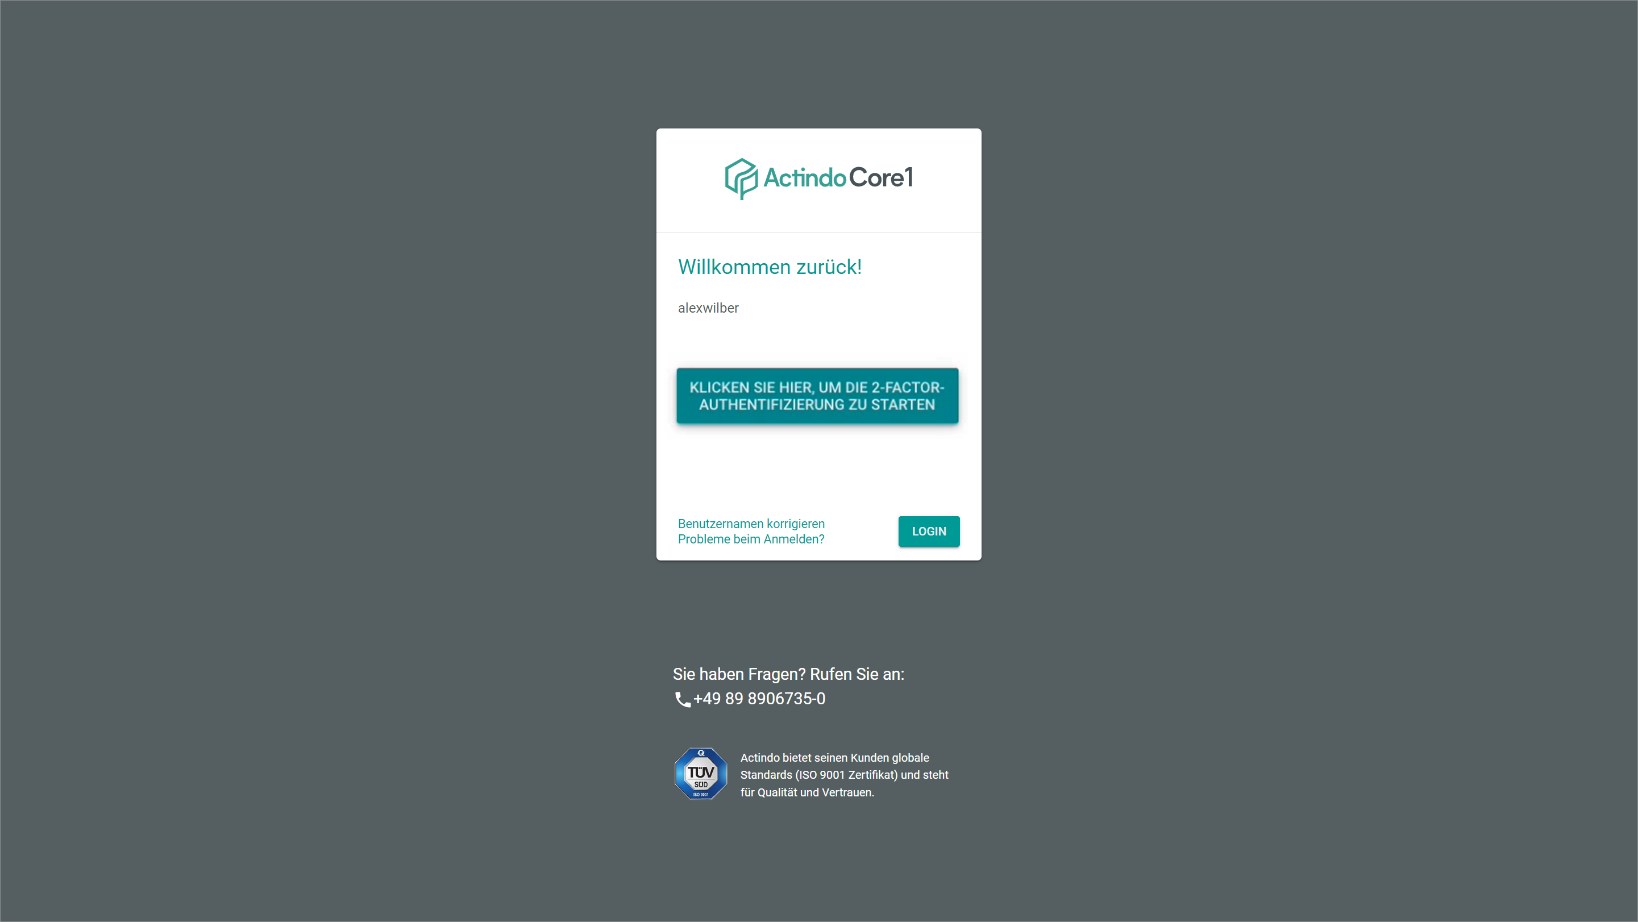
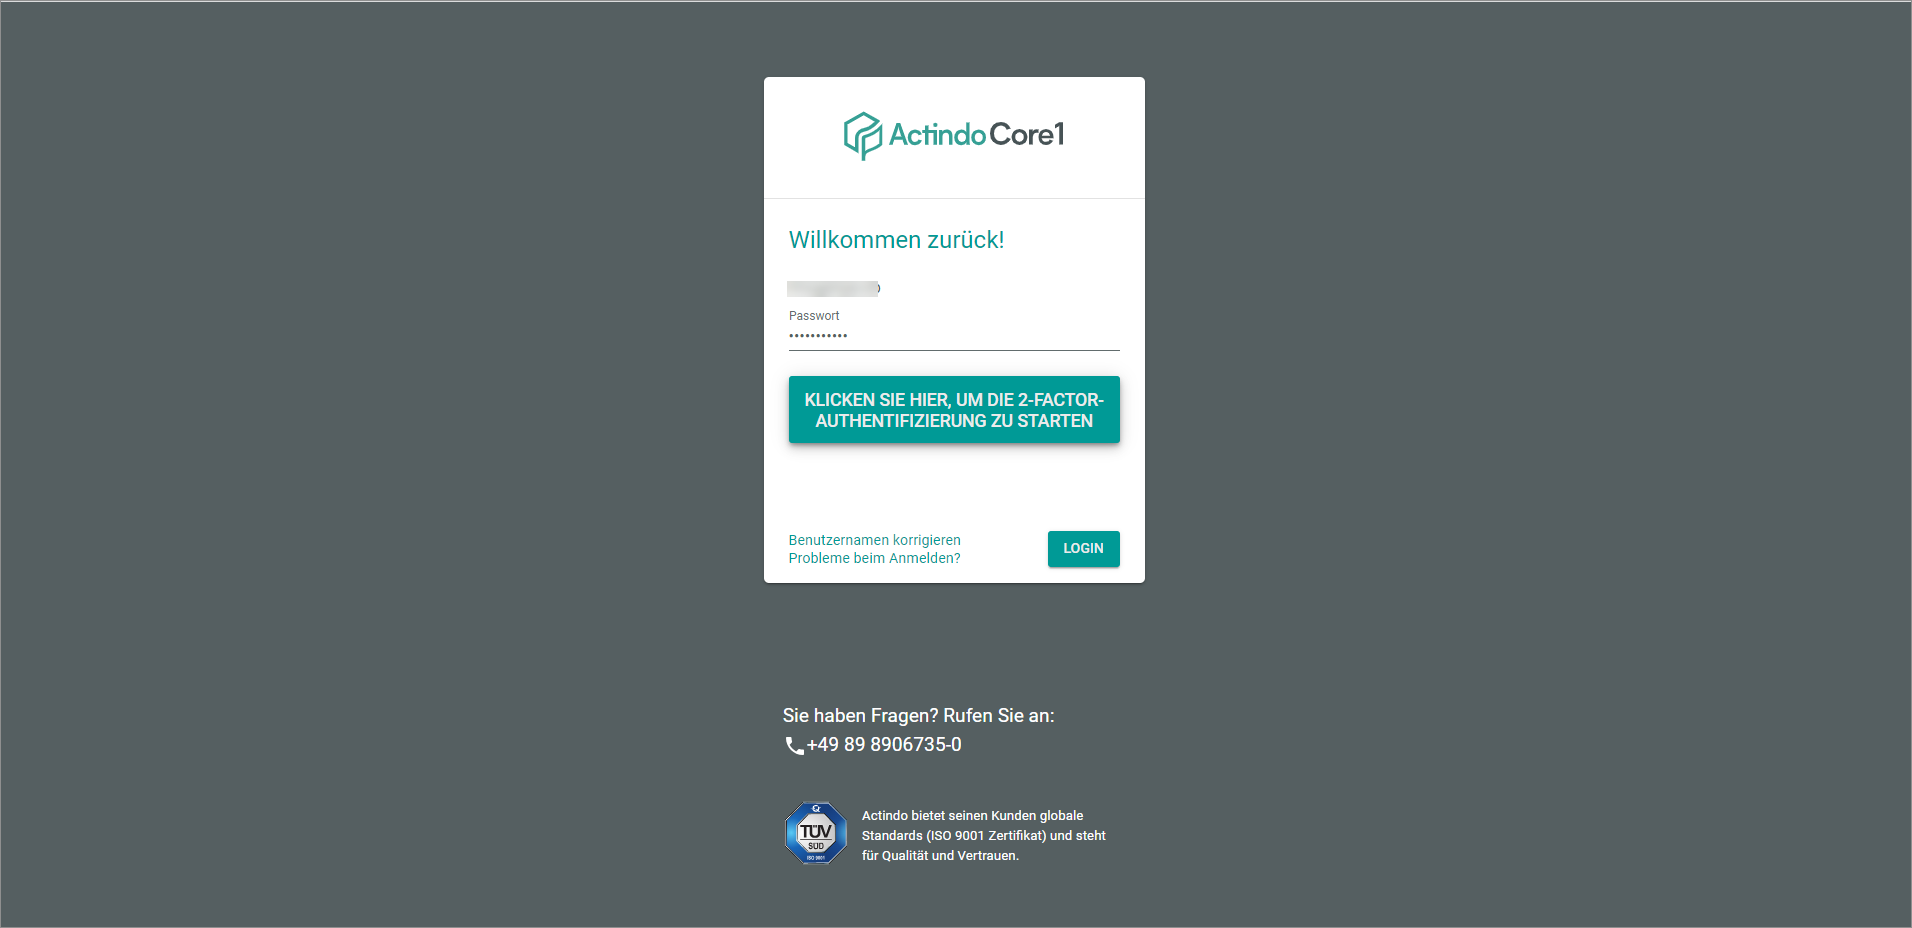
ACD-839

diff --git a/Core1Platform/UsingCore1/01b_U2FLogin.md b/Core1Platform/UsingCore1/01b_U2FLogin.md
@@ -14,32 +14,25 @@ After U2F has been configured for your Actindo account, you will use U2F from yo
 
 *Login Actindo*
 
-![Login username](../../Assets/Screenshots/Core1Platform/LoginUserName.png "[Login username]")
+![Login username](../../Assets/Screenshots/Core1Platform/UsingCore1/LoginUserName.png "[Login username]")
 
-1. Enter your username in the *Username* field and click the [LOGIN] button.   
-    The *Password* field is displayed.
 
-    ![Login password](../../Assets/Screenshots/Core1Platform/LoginPassword.png "[Login password]")
+1. Login  to the *Actindo Core1 Platform*. For detailed information, see [Login to the Actindo Core1 Platform ](./01_Login.md).
 
-2. Enter your password in the *Password* field and click the [LOGIN] button.   
-    The *Click here to start the second factor authentication* button is displayed.
+2. Click the *Click here to start the second factor authentication* button. Note, some keys may require another procedure, for example, you might have to select the *USB security key* option to verify your identity.   
+    The *Make sure it's you* window is displayed to select enter the U2F security key PIN. Note that there is a time-out if you do not enter the key in an appropriate time. In this case, restart the application.
 
-    ![Login U2F](../../Assets/Screenshots/Core1Platform/LoginU2F.png "[Login U2F]")
+    ![Enter security key PIN](../../Assets/Screenshots/Core1Platform/UsingCore1/LoginSecurityKeyPIN.png "[Enter security key PIN]")
 
-3. Click the *Click here to start the second factor authentication* button. Note, some keys may require another procedure, for example, you might have to enter your pre-set pin before touching the U2F key.   
-    The browser window *Verify your identity* is displayed to select the device type for the identity verification.
+3. Enter the U2F security key PIN.  
+    The window prompts you to insert the key and touch it.
 
-    ![Verify your identity](../../Assets/Screenshots/Core1Platform/ProfileSettings/U2F/VerifyIdentity.png "[Verify your identity]")
+    ![Touch key](../../Assets/Screenshots/Core1Platform/UsingCore1/LoginTouchSecurityKey.png "[Touch key]")
 
-4. Select the *USB security key* option in the browser window.   
-    The browser window changes to the *Use your security key* window and prompts you to insert the key and touch it.
-
-    ![Use security key](../../Assets/Screenshots/Core1Platform/ProfileSettings/U2F/UseSecurityKey.png "[Use security key]")
-
-5. Insert the *YubiKey* into your device.   
+4. Insert the *YubiKey* into your device.   
     The *YubiKey* starts to flash.
 
     > [Info] Note that problems with the connection to the *YubiKey* may occur if you use an adapter or an additional cable to connect the *YubiKey*.
 
-6. Touch the flashing area on your *YubiKey*.   
-    The browser window is closed. You are logged in to your account after a few moments.  
+5. Touch the flashing area on your *YubiKey*.   
+    The window is closed. You are logged in to your account after a few moments.  

diff --git a/Core1Platform/AdministratingCore1/01_MainAccountSandbox.md b/Core1Platform/AdministratingCore1/01_MainAccountSandbox.md
@@ -1,29 +1,31 @@
 # Main account and sandboxes
 
-Each tenant has one live-system. This is also called a main account. Licenses, vCores and available storage are bound to the live system and have to be shared with all sandboxes. Each live-account or sandbox has a specific host-prefix which determines how the account/sandbox can be accessed:
+Each tenant has one live-system. This is also called a main account. Licenses, vCores and available storage are bound to the live system and have to be shared with all sandboxes. Each main account or sandbox has a specific host-prefix which determines how the main account/sandbox can be accessed:
 
 - live-account: https://[host-prefix].actindo.com
 
 - sandbox: https://[host-prefix].dev.actindo.com
 
-Note, you can determine from the URL if you are logged in a sandbox or the main account.   
+Note, you can identify by the URL if you are logged into a sandbox or the main account.   
 ![Sandbox URL](../../Assets/Screenshots/Core1Platform/AdministratingCore1/SandboxURL.png "[Sandbox URL]")
 
 Each sandbox and main account has its own separated database. This means, that you cannot share data between the main account and the sandbox.
 
-**Sandboxes**
+**Sandboxes**   
+
 Each sandbox has an owning user. As an owning user, you can access the file system of the sandbox via SSH:
 
 ssh username@login.dev.actindo.com
 cd ~/sandboxes/[host-prefix]
 
-The owner of a sandbox must have access to the owning main account, but does not need to be owned by the main account.
+The owner of a sandbox must have access to the owning main account, but does not need to own the main account.
 
 vCores and storage are to be assigned to a sandbox. The assigned vCores and storage get subtracted from the budget of the main account. This means, if you expect a lot of processes and database entries in a sandbox, you have to consider, that this performance is to be shared with the main account.   
 The same is valid for licenses, so that you have to sum up all licenses for which you assign rights in the main account and in a sandbox.
 
 
 **Overview**   
+
 The following overview shows the main differences between a main account and a sandbox:
 Topic | Main account | Sandbox   
 --- | --- | ---

diff --git a/Core1Platform/UsingCore1/02_EditProfileSettings.md b/Core1Platform/UsingCore1/02_EditProfileSettings.md
@@ -1,1 +1,56 @@
 # Edit profile settings
+
+Your personal settings are stored in the profile settings.  You can change your user data as well as your password. Additionally, you can add or delete the U2F key, see [Set up U2F from the user side](#create-view "Set up U2F from the user side") for detailed information. 
+
+> [INFO] The setup of the SSH key is also part of the profile settings. It is relevant for developers only and therefore not subject of this documentation.
+
+## Edit your user profile
+The user profile contains information to your username, your e-mail address, and your address. Address data are subject to data protection. Clarify with your contact persons if you should provide your private address data.
+
+#### Prerequisites
+- You have an active Actindo account in the current sandbox or main account.
+
+#### Procedure
+
+ 1. Click your avatar icon in the upper right corner.   
+    The profile menu is displayed.
+
+    ![Profile menu](../../Assets/Screenshots/Core1Platform/UsingCore1/ProfileMenu.png "[Profile menu]")
+
+2. Open the PROFILE tab.
+   The *Edit user "username"* view is opened.
+
+   ![Edit user](../../Assets/Screenshots/Core1Platform/UsingCore1/UserProfile.png "[Edit user]")
+
+3. Enter or change your data, if desired.
+
+4. Click the [SAVE] button.   
+Your data are changed and transferred to all other sandboxes or main accounts in which you have a user. 
+
+## Change password
+
+
+#### Prerequisites
+
+
+#### Procedure
+
+1. Click your avatar icon in the upper right corner.   
+    The profile menu is displayed.
+
+    ![Profile menu](../../Assets/Screenshots/Core1Platform/UsingCore1/ProfileMenu.png "[Profile menu]")
+
+2. Open the PASSWORD tab.   
+   The *Change password* view is opened. Your full name is displayed top left.
+
+   ![Change password](../../Assets/Screenshots/Core1Platform/UsingCore1/ProfileChangePassword.png "[Change password]")
+
+3. Enter your current password in the *aktuelles Passwort (current password)* field.
+
+4. Enter the new password in the *neues Passwort (new password)* field.
+
+5. Repeat the new password in the *neues Passwort erneut eingeben (Confirm password)* field.
+
+
+
+

diff --git a/Core1Platform/AdministratingCore1/04_AdminSetupActindo.md b/Core1Platform/AdministratingCore1/04_AdminSetupActindo.md
@@ -3,7 +3,7 @@
 
 # Set up U2F from the administrator side
 
-For the U2F setup of an Actindo account, a user-side setup as well as an administrator-side setup is necessary. The Actindo administrator needs to activate U2F as an authorization method for the corresponding user to complete the *U2F* setup.
+For the U2F setup of an Actindo account, a user-side setup as well as an administrator-side setup is necessary. As an administrator, you must activate U2F as an authorization method for the corresponding user to complete the *U2F* setup.
 
 - Strong protection     
     The user credentials are protected with strong public key cryptography and bound to the service. Since only the real site can authenticate with a key, this provides a high level of protection against account takeover.  
@@ -16,8 +16,8 @@ For the U2F setup of an Actindo account, a user-side setup as well as an adminis
 
 #### Prerequisites
 
-- You have the required admin rights in the Actindo Core1 Platform.
-- You are logged in to a live account of the Core1 Platform with the corresponding user.
+- You have the required admin rights in the *Actindo Core1 Platform*.
+- You are logged in a live account of the *Core1 Platform* with a user assigned to the admin group.
 
 #### Procedure
 
@@ -37,6 +37,4 @@ For the U2F setup of an Actindo account, a user-side setup as well as an adminis
 3. Click the [SAVE] button in the upper right corner.     
     U2F is activated as authorization method for the selected user.
 
-    ![Actindo dashboard](../../Assets/Screenshots/ActindoDashboard/ActindoDashboard.png "[Actindo dashboard]")
-
-> [Info] You can repeat this procedure for all users for whom you want to activate U2F. Note that the U2F login needs also to be set up by the corresponding user to be used for the Actindo U2F login.
+   > [Info] You can repeat this procedure for all users for whom you want to activate U2F. Note that the U2F login needs also to be set up by the corresponding user to be used for the Actindo U2F login.

diff --git a/Core1Platform/UserInterface/01d_U2F.md b/Core1Platform/UserInterface/01d_U2F.md
@@ -20,12 +20,12 @@
 
 
 - ![Delete](../../Assets/Icons/Trash03.png "[Delete]") (Delete)      
-    Click this button to delete the selected SSH key. This button is only displayed, when the checkbox of an SSH key is selected.       
+    Click this button to delete the U2F key. This button is only displayed, when the checkbox of an U2F key is selected.       
 
-The list displays all SSH keys. All fields are read-only. Depending on the settings, the displayed columns may vary.
+The list displays all U2F keys. All fields are read-only. Depending on the settings, the displayed columns may vary.
 
 - *Key*   
-    SSH key identification number. The ID number is automatically assigned by the system.
+    U2F key identification number. The ID number is automatically assigned by the system.
 
 - *# Logins*   
 
@@ -43,7 +43,7 @@ The list displays all SSH keys. All fields are read-only. Depending on the setti
 
 ## Add new U2F device
 
-*Avator icon > Menu entry Settings > Tab SSH KEYS (DEVELOPERS ONLY) > Button Add*
+*Avator icon > Menu entry Settings > Tab U2F > Button Add*
 
 ![Add new U2F device](../../Assets/Screenshots/Core1Platform/ProfileSettings/U2F/AddNewU2FDevice.png "[Add new U2F device]")
 
@@ -51,5 +51,5 @@ The list displays all SSH keys. All fields are read-only. Depending on the setti
     Click this button to continue adding a new U2F key. The browser window *Verify your identity* is displayed to select the device type for identity verification.
 
 - [CANCEL]   
-    Click this button to cancel adding an U2F key and close the *Add new U2F device* window.
+    Click this button to cancel adding an U2F key. The *Add new U2F device* window is closed.
 

diff --git a/Core1Platform/UsingCore1/01a_UserSetupActindo.md b/Core1Platform/UsingCore1/01a_UserSetupActindo.md
@@ -22,14 +22,14 @@ For the U2F setup of an Actindo account, a user-side setup as well as an adminis
 
 *Login Actindo*
 
-![Login username](../../Assets/Screenshots/Core1Platform/LoginUserName.png "[Login username]")
+![Login username](../../Assets/Screenshots/Core1Platform/UsingCore1/LoginUserName.png "[Login username]")
 
 > [Info] For the user-side setup, you can log in to both a live account and a sandbox of the Core1 Platform.
 
 1. Enter your username in the *Username* field and click the [LOGIN] button.   
     The *Password* field is displayed.
 
-    ![Login password](../../Assets/Screenshots/Core1Platform/LoginPassword.png "[Login password]")
+    ![Login password](../../Assets/Screenshots/Core1Platform/UsingCore1/LoginPassword.png "[Login password]")
 
 2. Enter your password in the *Password* field and click the [LOGIN] button.   
     You are logged in. The *Actindo Dashboard* is displayed.
@@ -39,7 +39,7 @@ For the U2F setup of an Actindo account, a user-side setup as well as an adminis
 3. Click your avatar icon in the upper right corner.   
     The profile menu is displayed.
 
-    ![Profile menu](../../Assets/Screenshots/Core1Platform/ProfileMenu.png "[Profile menu]")
+    ![Profile menu](../../Assets/Screenshots/Core1Platform/UsingCore1/ProfileMenu.png "[Profile menu]")
 
 4. Click the *Settings* entry in the profile menu.   
     The *Profile* tab is displayed.

diff --git a/Core1Platform/UsingCore1/01_Login.md b/Core1Platform/UsingCore1/01_Login.md
@@ -1,1 +1,24 @@
-# Login to Actindo Core1 Platform 
+  
+[!!Log in via U2F](./01b_U2FLogin.md)
+
+# Login to the Actindo Core1 Platform 
+
+
+#### Prerequisites
+
+#### Procedure
+
+*Login Actindo*
+
+![Login username](../../Assets/Screenshots/Core1Platform/UsingCore1/LoginUserName.png "[Login username]")
+
+1. Enter your username in the *Username* field and click the [LOGIN] button.   
+    The *Password* field is displayed.
+
+    ![Login password](../../Assets/Screenshots/Core1Platform/UsingCore1/LoginPassword.png "[Login password]")
+
+2. Enter your password in the *Password* field and click the [LOGIN] button.  
+  You are logged in. The *Actindo Dashboard* is displayed.
+
+    ![Actindo dashboard](../../Assets/Screenshots/Core1Platform/UsingCore1/Core1Platform.png "[Actindo dashboard]")
+    

diff --git a/Core1Platform/AdministratingCore1/02_ManageUsers.md b/Core1Platform/AdministratingCore1/02_ManageUsers.md
@@ -1,3 +1,19 @@
 # Manage users
 
-The creation of a user takes place in the main or live account instance. You cannot create a user in a sandbox system
+The creation of a user takes place in the main or live account instance. You cannot create a user in a sandbox.
+
+
+## Create user
+
+
+#### Prerequisites
+
+- You are logged in a main account
+
+#### Procedure
+
+
+## Assign user to group
+
+
+## Invite user
